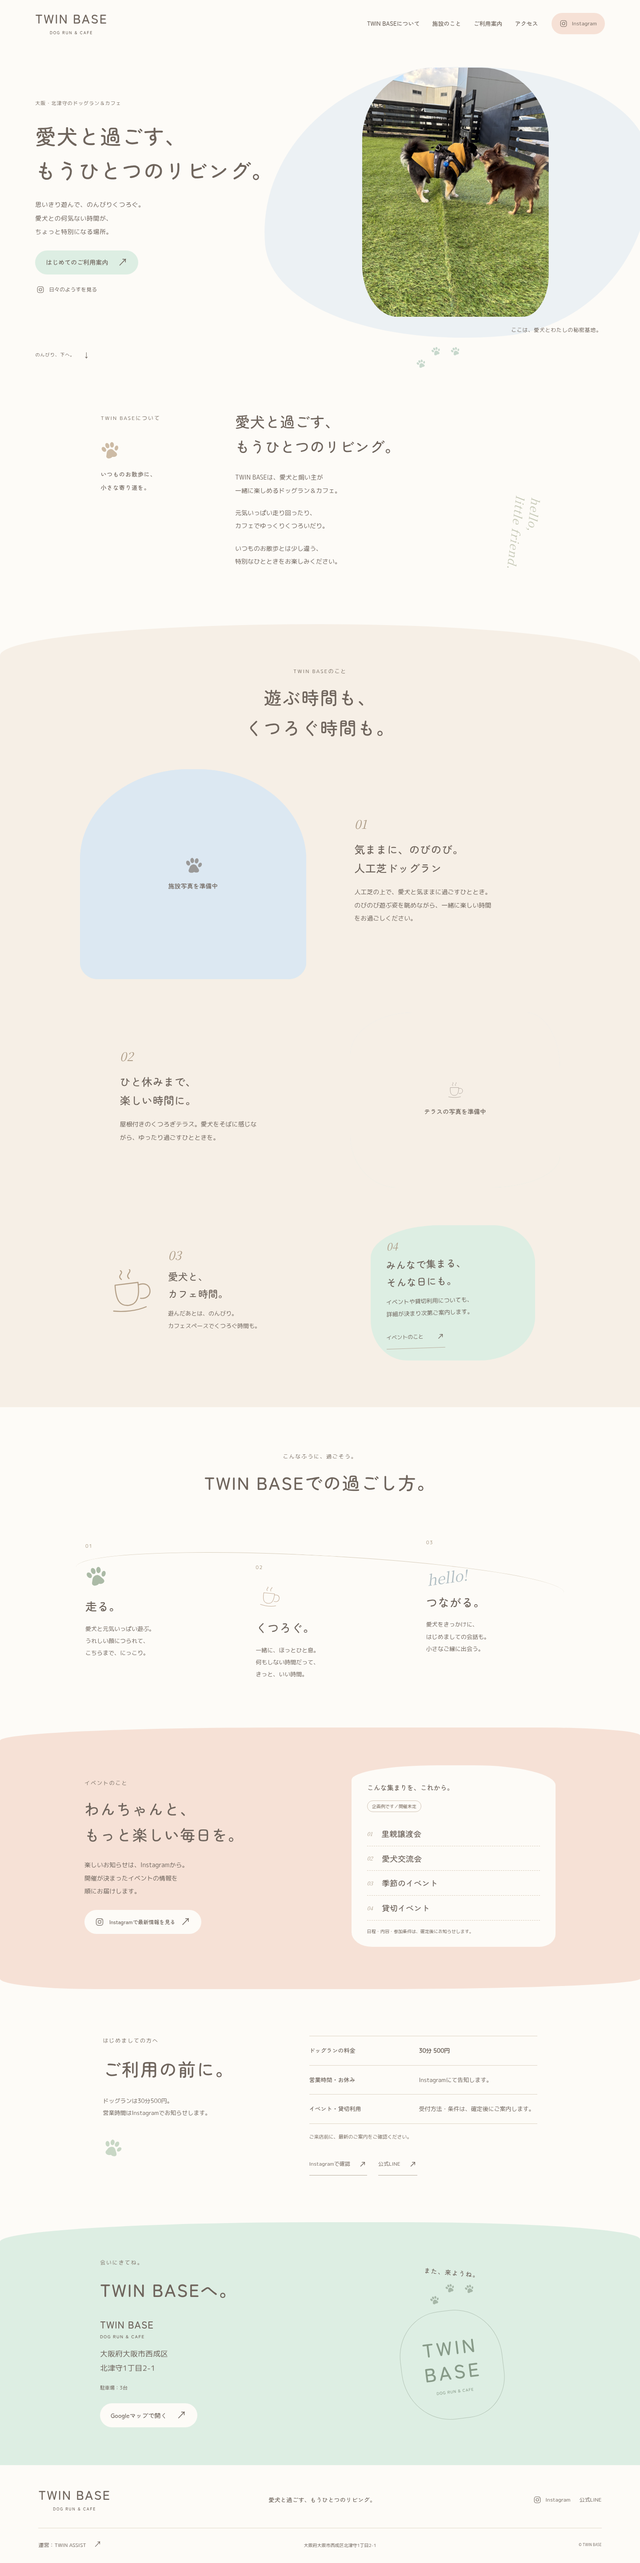
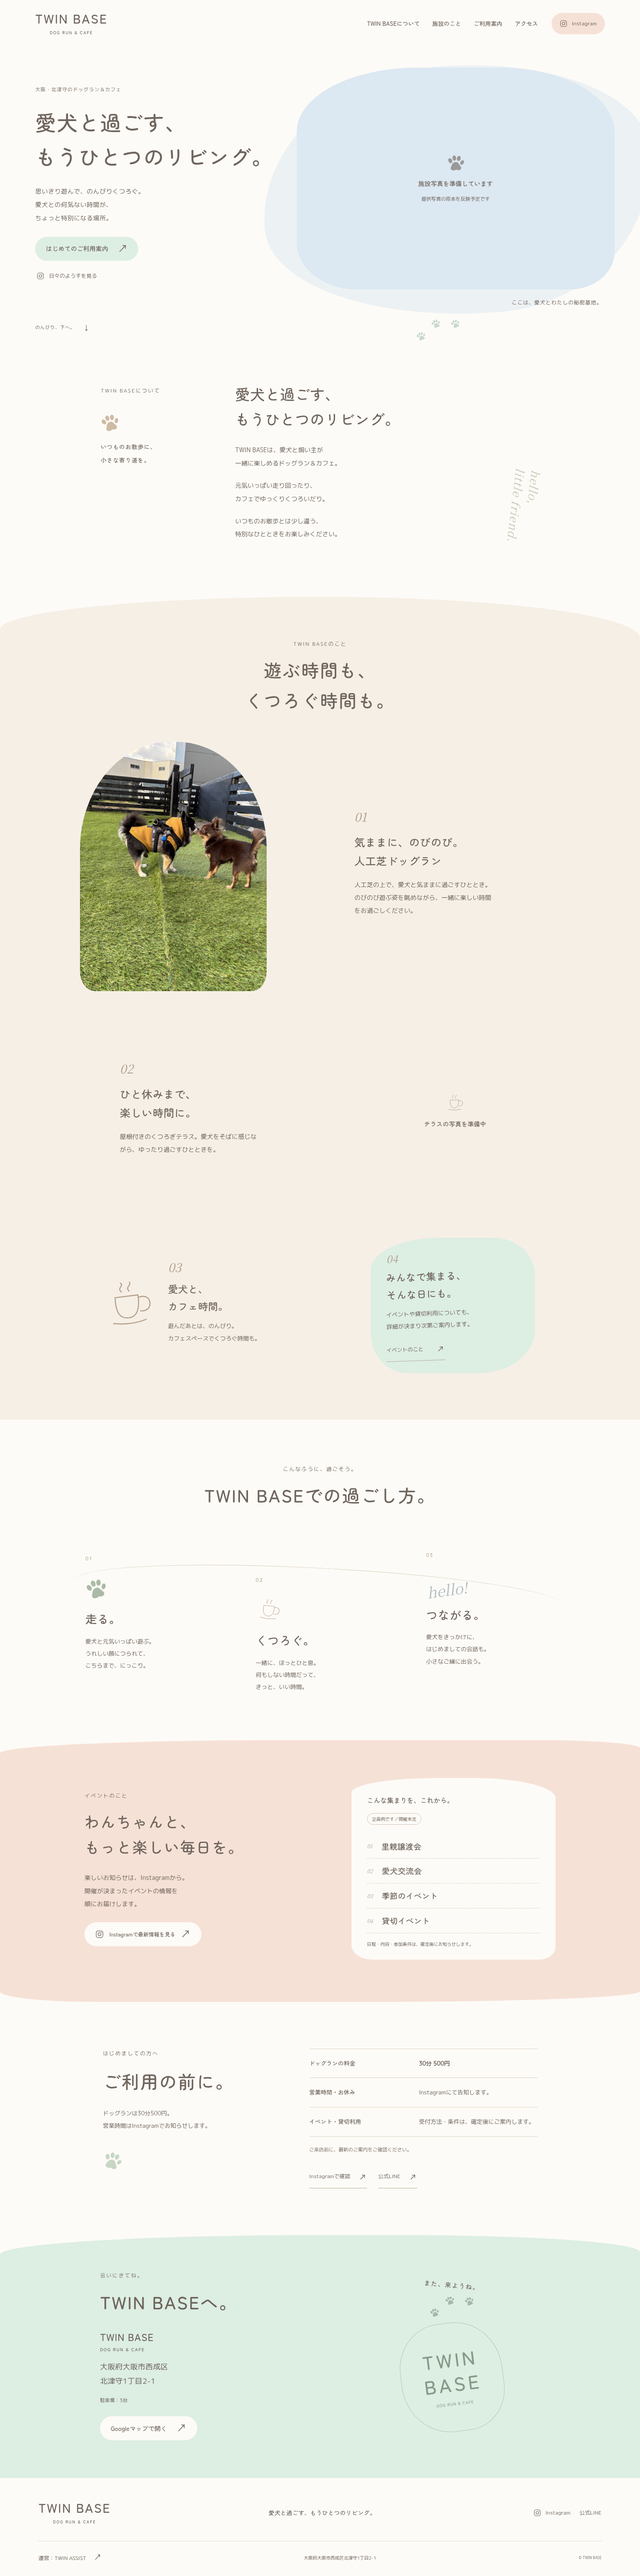
Correct TWIN BASE photo placement per user clarification

diff --git a/public/twin-base/index.html b/public/twin-base/index.html
@@ -1,13 +1,13 @@
 <!doctype html>
-<html lang="ja"><head><meta charset="UTF-8"><meta name="viewport" content="width=device-width,initial-scale=1"><meta name="theme-color" content="#FDFBF7"><meta name="robots" content="noindex,follow"><title>TWIN BASE｜大阪・北津守のドッグラン＆カフェ</title><meta name="description" content="愛犬と過ごす、もうひとつのリビング。大阪市西成区北津守のドッグラン＆カフェ TWIN BASE。施設の魅力、ご利用案内、アクセスをご紹介します。"><link rel="canonical" href="https://twin.yumayuma-0729.workers.dev/twin-base/"><meta property="og:type" content="website"><meta property="og:locale" content="ja_JP"><meta property="og:site_name" content="TWIN BASE"><meta property="og:title" content="TWIN BASE｜愛犬と過ごす、もうひとつのリビング。"><meta property="og:description" content="思いきり遊んで、のんびりくつろぐ。大阪・北津守のドッグラン＆カフェ。"><meta property="og:url" content="https://twin.yumayuma-0729.workers.dev/twin-base/"><link rel="stylesheet" href="/twin-base/style.css?v=20261117"><link rel="preload" as="font" type="font/woff2" href="/twin-base/fonts/zen-maru-medium.woff2" crossorigin><script src="/twin-base/settings.js?v=20261117" defer></script><script src="/twin-base/app.js?v=20261117" defer></script><script type="application/ld+json">{"@context":"https://schema.org","@type":"LocalBusiness","name":"TWIN BASE","description":"ドッグラン＆カフェ","url":"https://twin.yumayuma-0729.workers.dev/twin-base/","address":{"@type":"PostalAddress","streetAddress":"北津守1丁目2-1","addressLocality":"大阪市西成区","addressRegion":"大阪府","addressCountry":"JP"},"parentOrganization":{"@type":"Organization","name":"TWIN ASSIST","url":"https://twin.yumayuma-0729.workers.dev/"},"sameAs":["https://www.instagram.com/twinbase_dogrun?utm_source=qr"],"hasMap":"https://maps.app.goo.gl/CMuM3UB9zTNHnDWb7"}</script></head>
+<html lang="ja"><head><meta charset="UTF-8"><meta name="viewport" content="width=device-width,initial-scale=1"><meta name="theme-color" content="#FDFBF7"><meta name="robots" content="noindex,follow"><title>TWIN BASE｜大阪・北津守のドッグラン＆カフェ</title><meta name="description" content="愛犬と過ごす、もうひとつのリビング。大阪市西成区北津守のドッグラン＆カフェ TWIN BASE。施設の魅力、ご利用案内、アクセスをご紹介します。"><link rel="canonical" href="https://twin.yumayuma-0729.workers.dev/twin-base/"><meta property="og:type" content="website"><meta property="og:locale" content="ja_JP"><meta property="og:site_name" content="TWIN BASE"><meta property="og:title" content="TWIN BASE｜愛犬と過ごす、もうひとつのリビング。"><meta property="og:description" content="思いきり遊んで、のんびりくつろぐ。大阪・北津守のドッグラン＆カフェ。"><meta property="og:url" content="https://twin.yumayuma-0729.workers.dev/twin-base/"><link rel="stylesheet" href="/twin-base/style.css?v=20261117-photo-order"><link rel="preload" as="font" type="font/woff2" href="/twin-base/fonts/zen-maru-medium.woff2" crossorigin><script src="/twin-base/settings.js?v=20261117-photo-order" defer></script><script src="/twin-base/app.js?v=20261117-photo-order" defer></script><script type="application/ld+json">{"@context":"https://schema.org","@type":"LocalBusiness","name":"TWIN BASE","description":"ドッグラン＆カフェ","url":"https://twin.yumayuma-0729.workers.dev/twin-base/","address":{"@type":"PostalAddress","streetAddress":"北津守1丁目2-1","addressLocality":"大阪市西成区","addressRegion":"大阪府","addressCountry":"JP"},"parentOrganization":{"@type":"Organization","name":"TWIN ASSIST","url":"https://twin.yumayuma-0729.workers.dev/"},"sameAs":["https://www.instagram.com/twinbase_dogrun?utm_source=qr"],"hasMap":"https://maps.app.goo.gl/CMuM3UB9zTNHnDWb7"}</script></head>
 <body class="tb-page"><a class="tb-skip" href="#main">本文へ移動</a>
 <svg class="tb-svg-defs" aria-hidden="true" xmlns="http://www.w3.org/2000/svg"><defs><symbol id="paw" viewBox="0 0 48 48"><ellipse cx="10" cy="18" rx="5" ry="7" transform="rotate(-25 10 18)"/><ellipse cx="21" cy="11" rx="5" ry="7" transform="rotate(-8 21 11)"/><ellipse cx="33" cy="12" rx="5" ry="7" transform="rotate(12 33 12)"/><ellipse cx="42" cy="23" rx="4.5" ry="6.5" transform="rotate(30 42 23)"/><path d="M15 28c3-6 12-9 17-3l6 9c5 8-5 12-12 8-7 5-18 1-14-7z"/></symbol><symbol id="instagram" viewBox="0 0 24 24"><rect x="3" y="3" width="18" height="18" rx="5" fill="none" stroke="currentColor" stroke-width="1.5"/><circle cx="12" cy="12" r="4" fill="none" stroke="currentColor" stroke-width="1.5"/><circle cx="17.5" cy="6.5" r="1"/></symbol><symbol id="cup" viewBox="0 0 140 130"><path d="M32 39c-3 43 6 61 32 62 24 0 35-21 34-62zM99 46c41-11 40 48 1 39M19 112c27 6 64 8 94-1M52 25c-13-14 11-15 0-26M74 25c-11-13 11-17 4-26" fill="none" stroke="currentColor" stroke-width="3" stroke-linecap="round" stroke-linejoin="round"/></symbol></defs></svg>
 <header class="tb-header"><a class="tb-logo" href="/twin-base/" aria-label="TWIN BASE ホーム"><img data-base-asset="logo" width="400" height="260" alt="TWIN BASEのロゴ" hidden><span class="tb-brand-fallback"><strong>TWIN BASE</strong><small>DOG RUN & CAFE</small></span></a><nav class="tb-desktop-nav" aria-label="メインナビゲーション"><a href="#about">TWIN BASEについて</a><a href="#features">施設のこと</a><a href="#guide">ご利用案内</a><a href="#access">アクセス</a></nav><button class="tb-header-instagram" data-social="instagram" type="button"><svg aria-hidden="true"><use href="#instagram"/></svg><span>Instagram</span></button><button class="tb-menu-toggle" type="button" aria-controls="tb-menu" aria-expanded="false"><span>メニュー</span><i aria-hidden="true"></i></button></header>
 <nav class="tb-mobile-menu" id="tb-menu" aria-label="スマートフォンメニュー" hidden><a href="#about">TWIN BASEについて</a><a href="#features">施設のこと</a><a href="#enjoy">過ごし方</a><a href="#events">イベント</a><a href="#guide">ご利用案内</a><a href="#access">アクセス</a><div><button data-social="instagram" type="button">Instagram</button><button data-social="line" type="button">公式LINE</button></div></nav>
 <main id="main">
-<section class="tb-hero" aria-labelledby="tb-hero-title"><div class="tb-hero-cloud" aria-hidden="true"></div><div class="tb-hero-copy"><span class="tb-eyebrow">大阪・北津守のドッグラン＆カフェ</span><h1 id="tb-hero-title">愛犬と過ごす、<br>もうひとつの<br class="tb-phone-break">リビング。</h1><p>思いきり遊んで、のんびりくつろぐ。<br>愛犬との何気ない時間が、<br>ちょっと特別になる場所。</p><div class="tb-hero-actions"><a class="tb-button tb-button-mint" href="#guide">はじめてのご利用案内 <span aria-hidden="true">↗</span></a><button class="tb-social-text" data-social="instagram" type="button"><svg aria-hidden="true"><use href="#instagram"/></svg>日々のようすを見る</button></div></div><figure class="tb-hero-photo"><div class="tb-media tb-media-hero"><img data-base-asset="hero" src="/twin-base/assets/hero-dogs.jpg" width="1050" height="1400" alt="TWIN BASEの人工芝ドッグランでふれあう2匹の犬" fetchpriority="high"><div class="tb-photo-pending" hidden><span class="tb-photo-sky" aria-hidden="true"></span><svg aria-hidden="true"><use href="#paw"/></svg><span>施設写真を準備しています</span><small>提供写真の原本を反映予定です</small></div></div><figcaption>ここは、愛犬とわたしの秘密基地。</figcaption></figure><div class="tb-paw-trail" aria-hidden="true"><svg><use href="#paw"/></svg><svg><use href="#paw"/></svg><svg><use href="#paw"/></svg></div><a class="tb-scroll" href="#about">のんびり、下へ。<span aria-hidden="true">↓</span></a></section>
+<section class="tb-hero" aria-labelledby="tb-hero-title"><div class="tb-hero-cloud" aria-hidden="true"></div><div class="tb-hero-copy"><span class="tb-eyebrow">大阪・北津守のドッグラン＆カフェ</span><h1 id="tb-hero-title">愛犬と過ごす、<br>もうひとつの<br class="tb-phone-break">リビング。</h1><p>思いきり遊んで、のんびりくつろぐ。<br>愛犬との何気ない時間が、<br>ちょっと特別になる場所。</p><div class="tb-hero-actions"><a class="tb-button tb-button-mint" href="#guide">はじめてのご利用案内 <span aria-hidden="true">↗</span></a><button class="tb-social-text" data-social="instagram" type="button"><svg aria-hidden="true"><use href="#instagram"/></svg>日々のようすを見る</button></div></div><figure class="tb-hero-photo"><div class="tb-media tb-media-hero"><img data-base-asset="hero" width="1502" height="1047" alt="TWIN BASEのコンテナ型施設と芝生にいるコーギーの写真" fetchpriority="high" hidden><div class="tb-photo-pending"><span class="tb-photo-sky" aria-hidden="true"></span><svg aria-hidden="true"><use href="#paw"/></svg><span>施設写真を準備しています</span><small>提供写真の原本を反映予定です</small></div></div><figcaption>ここは、愛犬とわたしの秘密基地。</figcaption></figure><div class="tb-paw-trail" aria-hidden="true"><svg><use href="#paw"/></svg><svg><use href="#paw"/></svg><svg><use href="#paw"/></svg></div><a class="tb-scroll" href="#about">のんびり、下へ。<span aria-hidden="true">↓</span></a></section>
 <section id="about" class="tb-about tb-reveal" aria-labelledby="tb-about-title"><div class="tb-about-note"><span class="tb-eyebrow">TWIN BASEについて</span><svg aria-hidden="true"><use href="#paw"/></svg><span>いつものお散歩に、<br>小さな寄り道を。</span></div><div class="tb-about-copy"><h2 id="tb-about-title">愛犬と過ごす、<br>もうひとつのリビング。</h2><p>TWIN BASEは、愛犬と飼い主が<br class="tb-desktop-break">一緒に楽しめるドッグラン＆カフェ。</p><p>元気いっぱい走り回ったり、<br>カフェでゆっくりくつろいだり。</p><p>いつものお散歩とは少し違う、<br>特別なひとときをお楽しみください。</p></div><div class="tb-about-word" aria-hidden="true">hello,<br>little friend.</div></section>
-<section id="features" class="tb-features" aria-labelledby="tb-features-title"><div class="tb-section-title tb-reveal"><span class="tb-eyebrow">TWIN BASEのこと</span><h2 id="tb-features-title">遊ぶ時間も、<br>くつろぐ時間も。</h2></div><article class="tb-feature tb-feature-run tb-reveal"><div class="tb-feature-photo tb-media tb-media-arch"><img data-base-asset="facility" width="1502" height="1047" alt="TWIN BASEのドッグランと施設の写真" loading="lazy" hidden><div class="tb-photo-pending"><svg aria-hidden="true"><use href="#paw"/></svg><span>施設写真を準備中</span></div></div><div class="tb-feature-copy"><span class="tb-number">01</span><h3>気ままに、のびのび。<br>人工芝ドッグラン</h3><p>人工芝の上で、愛犬と気ままに過ごすひととき。のびのび遊ぶ姿を眺めながら、一緒に楽しい時間をお過ごしください。</p></div></article><article class="tb-feature tb-feature-terrace tb-reveal"><div class="tb-feature-copy"><span class="tb-number">02</span><h3>ひと休みまで、<br>楽しい時間に。</h3><p>屋根付きのくつろぎテラス。愛犬をそばに感じながら、ゆったり過ごすひとときを。</p></div><div class="tb-feature-photo tb-media tb-media-soft"><img data-base-asset="facility" width="1502" height="1047" alt="TWIN BASEの屋根付きテラスとウッドデッキの写真" loading="lazy" hidden><div class="tb-photo-pending"><svg aria-hidden="true"><use href="#cup"/></svg><span>テラスの写真を準備中</span></div></div></article><div class="tb-little-features"><article class="tb-cafe-note tb-reveal"><svg class="tb-cup" aria-hidden="true"><use href="#cup"/></svg><div><span class="tb-number">03</span><h3>愛犬と、<br>カフェ時間。</h3><p>遊んだあとは、のんびり。<br>カフェスペースでくつろぐ時間も。</p></div></article><article class="tb-private-note tb-reveal"><span class="tb-number">04</span><h3>みんなで集まる、<br>そんな日にも。</h3><p>イベントや貸切利用についても、<br>詳細が決まり次第ご案内します。</p><a class="tb-text-link" href="#events">イベントのこと <span aria-hidden="true">↗</span></a></article></div></section>
+<section id="features" class="tb-features" aria-labelledby="tb-features-title"><div class="tb-section-title tb-reveal"><span class="tb-eyebrow">TWIN BASEのこと</span><h2 id="tb-features-title">遊ぶ時間も、<br>くつろぐ時間も。</h2></div><article class="tb-feature tb-feature-run tb-reveal"><div class="tb-feature-photo tb-media tb-media-arch"><img data-base-asset="dogrun" src="/twin-base/assets/hero-dogs.jpg" width="1050" height="1400" alt="人工芝ドッグランでふれあう2匹の犬" loading="lazy"><div class="tb-photo-pending" hidden><svg aria-hidden="true"><use href="#paw"/></svg><span>施設写真を準備中</span></div></div><div class="tb-feature-copy"><span class="tb-number">01</span><h3>気ままに、のびのび。<br>人工芝ドッグラン</h3><p>人工芝の上で、愛犬と気ままに過ごすひととき。のびのび遊ぶ姿を眺めながら、一緒に楽しい時間をお過ごしください。</p></div></article><article class="tb-feature tb-feature-terrace tb-reveal"><div class="tb-feature-copy"><span class="tb-number">02</span><h3>ひと休みまで、<br>楽しい時間に。</h3><p>屋根付きのくつろぎテラス。愛犬をそばに感じながら、ゆったり過ごすひとときを。</p></div><div class="tb-feature-photo tb-media tb-media-soft"><img data-base-asset="facility" width="1502" height="1047" alt="TWIN BASEの屋根付きテラスとウッドデッキの写真" loading="lazy" hidden><div class="tb-photo-pending"><svg aria-hidden="true"><use href="#cup"/></svg><span>テラスの写真を準備中</span></div></div></article><div class="tb-little-features"><article class="tb-cafe-note tb-reveal"><svg class="tb-cup" aria-hidden="true"><use href="#cup"/></svg><div><span class="tb-number">03</span><h3>愛犬と、<br>カフェ時間。</h3><p>遊んだあとは、のんびり。<br>カフェスペースでくつろぐ時間も。</p></div></article><article class="tb-private-note tb-reveal"><span class="tb-number">04</span><h3>みんなで集まる、<br>そんな日にも。</h3><p>イベントや貸切利用についても、<br>詳細が決まり次第ご案内します。</p><a class="tb-text-link" href="#events">イベントのこと <span aria-hidden="true">↗</span></a></article></div></section>
 <section id="enjoy" class="tb-enjoy" aria-labelledby="tb-enjoy-title"><div class="tb-section-title tb-reveal"><span class="tb-eyebrow">こんなふうに、過ごそう。</span><h2 id="tb-enjoy-title">TWIN BASEでの過ごし方。</h2></div><div class="tb-enjoy-scenes"><article class="tb-scene tb-scene-play tb-reveal"><span>01</span><svg aria-hidden="true"><use href="#paw"/></svg><h3>走る。</h3><p>愛犬と元気いっぱい遊ぶ。<br>うれしい顔につられて、<br>こちらまで、にっこり。</p></article><article class="tb-scene tb-scene-rest tb-reveal"><span>02</span><svg aria-hidden="true"><use href="#cup"/></svg><h3>くつろぐ。</h3><p>一緒に、ほっとひと息。<br>何もしない時間だって、<br>きっと、いい時間。</p></article><article class="tb-scene tb-scene-meet tb-reveal"><span>03</span><span class="tb-scene-doodle" aria-hidden="true">hello!</span><h3>つながる。</h3><p>愛犬をきっかけに、<br>はじめましての会話も。<br>小さなご縁に出会う。</p></article></div></section>
 <section id="events" class="tb-events" aria-labelledby="tb-events-title"><div class="tb-event-copy tb-reveal"><span class="tb-eyebrow">イベントのこと</span><h2 id="tb-events-title">わんちゃんと、<br>もっと楽しい毎日を。</h2><p>楽しいお知らせは、Instagramから。<br>開催が決まったイベントの情報を<br>順にお届けします。</p><button class="tb-button tb-button-white" data-social="instagram" type="button"><svg aria-hidden="true"><use href="#instagram"/></svg>Instagramで最新情報を見る <span aria-hidden="true">↗</span></button></div><div class="tb-event-board tb-reveal"><span class="tb-board-label">こんな集まりを、これから。</span><p class="tb-status">企画例です／開催未定</p><ul><li><span>01</span>里親譲渡会</li><li><span>02</span>愛犬交流会</li><li><span>03</span>季節のイベント</li><li><span>04</span>貸切イベント</li></ul><small>日程・内容・参加条件は、確定後にお知らせします。</small></div></section>
 <section id="guide" class="tb-guide" aria-labelledby="tb-guide-title"><div class="tb-guide-heading tb-reveal"><span class="tb-eyebrow">はじめましての方へ</span><h2 id="tb-guide-title">ご利用の前に。</h2><p>ドッグランは30分500円。<br>営業時間はInstagramでお知らせします。</p><svg aria-hidden="true"><use href="#paw"/></svg></div><div class="tb-guide-details tb-reveal"><dl><div><dt>ドッグランの料金</dt><dd><strong>30分 500円</strong></dd></div><div><dt>営業時間・お休み</dt><dd>Instagramにて告知します。</dd></div><div><dt>イベント・貸切利用</dt><dd>受付方法・条件は、確定後にご案内します。</dd></div></dl><p class="tb-guide-note">ご来店前に、最新のご案内をご確認ください。</p><div class="tb-guide-socials"><button data-social="instagram" class="tb-text-link" type="button">Instagramで確認 <span aria-hidden="true">↗</span></button><button data-social="line" class="tb-text-link" type="button">公式LINE <span aria-hidden="true">↗</span></button></div></div></section>

diff --git a/public/twin-base/app.js b/public/twin-base/app.js
@@ -14,7 +14,7 @@
  const socialUrl=(value,kind)=>{try{const url=new URL(value);const domains=kind==='instagram'?['instagram.com','www.instagram.com']:['line.me','www.line.me','lin.ee','liff.line.me'];return url.protocol==='https:'&&domains.includes(url.hostname)&&!url.username&&!url.password?url.href:null}catch{return null}};
  document.querySelectorAll('[data-social]').forEach(button=>{const kind=button.dataset.social,url=socialUrl(settings[kind+'Url'],kind);if(url){const link=document.createElement('a');for(const a of button.attributes)if(!['type','data-social'].includes(a.name))link.setAttribute(a.name,a.value);link.href=url;link.target='_blank';link.rel='noopener noreferrer';link.innerHTML=button.innerHTML;button.replaceWith(link)}else button.addEventListener('click',()=>{lastTrigger=button;const label=kind==='instagram'?'Instagram':'公式LINE';document.querySelector('#tb-dialog-title').textContent=label+'のご案内';document.querySelector('#tb-dialog-text').textContent=label+'は、ただいま公開準備中です。正式なアカウントのご案内まで、もうしばらくお待ちください。';dialog.showModal()})});
  const localAsset=value=>{if(typeof value!=='string'||!value.startsWith('/twin-base/assets/')||value.includes('..'))return null;return value};
- document.querySelectorAll('[data-base-asset]').forEach(img=>{const key=img.dataset.baseAsset,path=localAsset(settings[key==='logo'?'logoPath':key==='hero'?'heroPhotoPath':'facilityPhotoPath']||(key==='hero'?settings.facilityPhotoPath:''));if(!path)return;img.addEventListener('load',()=>{img.hidden=false;if(key==='logo')img.parentElement.querySelector('.tb-brand-fallback')?.setAttribute('hidden','');else img.parentElement.querySelector('.tb-photo-pending')?.setAttribute('hidden','')});img.addEventListener('error',()=>{img.hidden=true;img.removeAttribute('src')});img.src=path});
+ document.querySelectorAll('[data-base-asset]').forEach(img=>{const key=img.dataset.baseAsset,path=localAsset(settings[key==='logo'?'logoPath':key==='hero'?'heroPhotoPath':key==='dogrun'?'dogrunPhotoPath':'facilityPhotoPath']||(key==='hero'?settings.facilityPhotoPath:''));if(!path)return;img.addEventListener('load',()=>{img.hidden=false;if(key==='logo')img.parentElement.querySelector('.tb-brand-fallback')?.setAttribute('hidden','');else img.parentElement.querySelector('.tb-photo-pending')?.setAttribute('hidden','')});img.addEventListener('error',()=>{img.hidden=true;img.removeAttribute('src')});img.src=path});
  const reduced=matchMedia('(prefers-reduced-motion:reduce)');
  if('IntersectionObserver' in window&&!reduced.matches){document.documentElement.classList.add('tb-motion');const observer=new IntersectionObserver(entries=>{entries.forEach(entry=>{if(entry.isIntersecting){entry.target.classList.add('tb-visible');observer.unobserve(entry.target)}})},{threshold:.08});document.querySelectorAll('.tb-reveal').forEach(e=>observer.observe(e));if(reduced.addEventListener)reduced.addEventListener('change',e=>{if(e.matches){document.documentElement.classList.remove('tb-motion');observer.disconnect()}})}
 })();

diff --git a/public/twin-base/style.css b/public/twin-base/style.css
@@ -31,5 +31,5 @@
 /* The organic decorative shape may bleed to the frame, never beyond the viewport. */
 .tb-hero{overflow:hidden;overflow:clip}
 
-/* Portrait hero keeps both dogs and the supplied photograph intact. */
-.tb-media-hero{aspect-ratio:3/4;max-width:420px;margin-inline:auto}
+/* The hero uses the landscape facility photo; the run preserves both dogs. */
+.tb-feature-run .tb-media-arch{aspect-ratio:3/4;max-width:420px;width:100%}

diff --git a/public/twin-base/settings.js b/public/twin-base/settings.js
@@ -3,6 +3,7 @@ window.TWIN_BASE_SETTINGS=Object.freeze({
  instagramUrl:'https://www.instagram.com/twinbase_dogrun?utm_source=qr',
  lineUrl:'',
  logoPath:'',
- heroPhotoPath:'/twin-base/assets/hero-dogs.jpg',
+ heroPhotoPath:'',
+ dogrunPhotoPath:'/twin-base/assets/hero-dogs.jpg',
  facilityPhotoPath:''
 });

diff --git a/docs/TWIN_BASE_Implementation.md b/docs/TWIN_BASE_Implementation.md
@@ -29,3 +29,7 @@ Set `instagramUrl` and `lineUrl` in `settings.js`. HTTPS Instagram and official 
 Run the zero-dependency preview server and `PREVIEW_URL=http://127.0.0.1:3003 node tests/twin-base.cjs`. Test mobile/desktop widths, menu/focus/Escape, missing social setup, reduced motion, no-JavaScript content, image configuration and social link configuration.
 
 After actual image delivery, check the transparent logo boundary at 1x/2x sizes, hero dog visibility at mobile widths, and repeat screenshots before calling the LP complete.
+
+## Photo placement correction — 2026-11-17
+
+The user clarified that the container facility/corgi landscape is the main visual. The uploaded HEIC of two dogs belongs to the artificial-turf dog-run feature. The dogs photo has been moved there, with its own `dogrunPhotoPath`. The hero returns to its landscape frame and an explicit photo placeholder while awaiting the original facility image file. The inline facility image can be seen in chat but still has no accessible original bytes. Earlier placement notes above are superseded by this correction.
